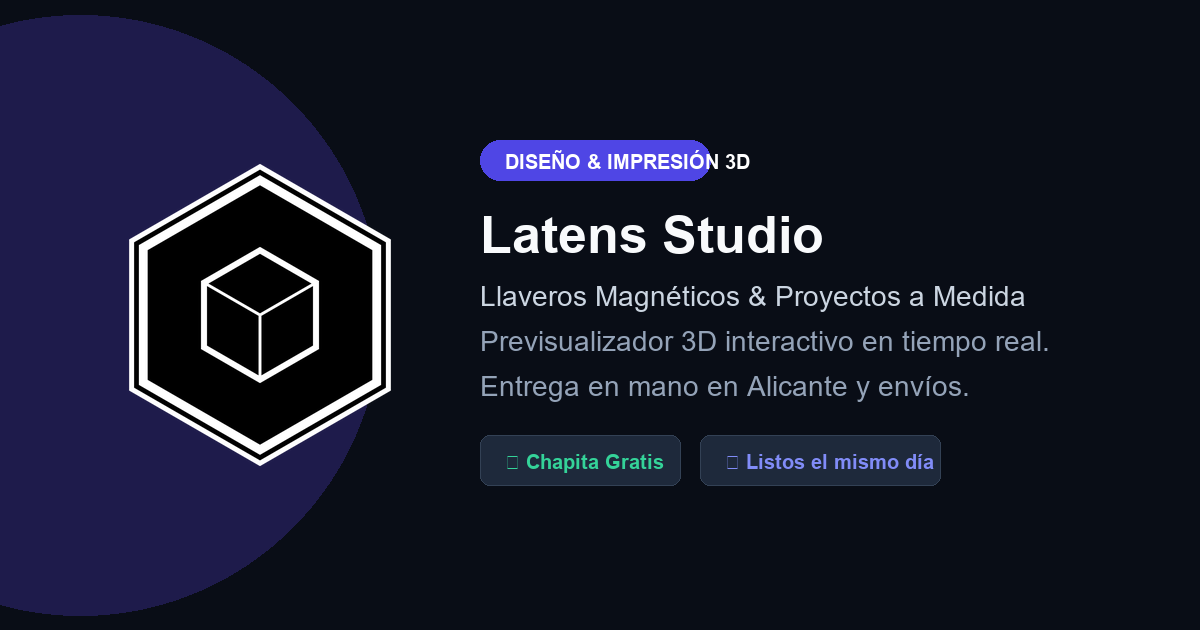
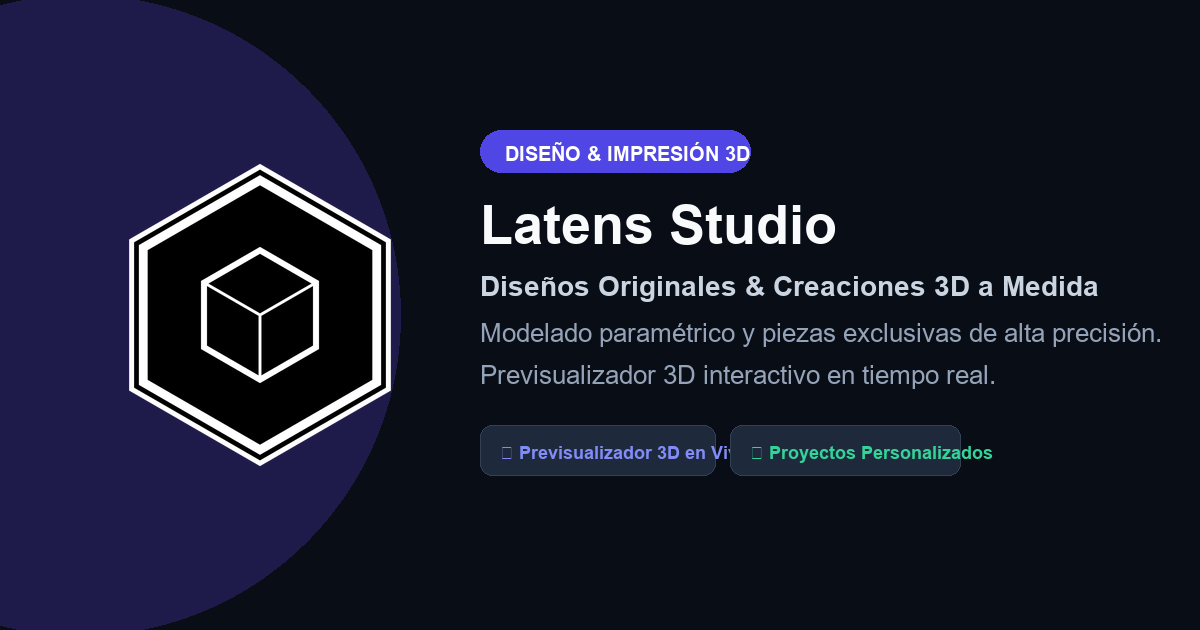
Add files via upload

Changed region(s): [[0.4008, 0.181, 0.9558, 0.6333], [0.0, 0.0, 0.3392, 1.0], [0.4008, 0.6635, 0.8325, 0.7841]]

diff --git a/index.html b/index.html
@@ -6,9 +6,9 @@
     <meta name="color-scheme" content="light dark">
     <meta name="theme-color" content="#f8fafc">
     <!-- Metadatos Principales & SEO -->
-    <title>Latens Studio — Llaveros & Diseño 3D Personalizado</title>
-    <meta name="title" content="Latens Studio — Llaveros & Diseño 3D Personalizado">
-    <meta name="description" content="Llaveros magnéticos para parejas, iniciales y proyectos 3D a medida. Previsualiza tu modelo 3D en tiempo real con chapita de regalo. ¡Listos el mismo día en Alicante!">
+    <title>Latens Studio — Diseño, Modelado & Impresión 3D Personalizada</title>
+    <meta name="title" content="Latens Studio — Diseño, Modelado & Impresión 3D Personalizada">
+    <meta name="description" content="Diseños originales, proyectos 3D a medida y previsualizador interactivo en tiempo real. Fabricación de alta precisión, modelado paramétrico y piezas exclusivas.">
     <meta name="author" content="Latens Studio">
     <meta name="robots" content="index, follow">
 
@@ -16,23 +16,27 @@
     <meta property="og:type" content="website">
     <meta property="og:url" content="https://latens-studio.github.io/Latens_Studio_Web/">
     <meta property="og:site_name" content="Latens Studio">
-    <meta property="og:title" content="Latens Studio — Llaveros & Diseño 3D Personalizado">
-    <meta property="og:description" content="Llaveros magnéticos para parejas, iniciales y proyectos 3D a medida. Previsualizador 3D interactivo en tiempo real con chapita de regalo incluida.">
-    <meta property="og:image" content="https://raw.githubusercontent.com/Latens-Studio/Latens_Studio_Web/main/preview-og.png">
-    <meta property="og:image:secure_url" content="https://raw.githubusercontent.com/Latens-Studio/Latens_Studio_Web/main/preview-og.png">
-    <meta property="og:image:type" content="image/png">
+    <meta property="og:title" content="Latens Studio — Diseños Originales & Impresión 3D Personalizada">
+    <meta property="og:description" content="Proyectos 3D a medida, modelado paramétrico y previsualizador interactivo en tiempo real de tu modelo personalizado con chapita de regalo.">
+    <meta property="og:image" content="https://latens-studio.github.io/Latens_Studio_Web/preview-og.jpg">
+    <meta property="og:image:secure_url" content="https://latens-studio.github.io/Latens_Studio_Web/preview-og.jpg">
+    <meta property="og:image:type" content="image/jpeg">
     <meta property="og:image:width" content="1200">
     <meta property="og:image:height" content="630">
-    <meta property="og:image:alt" content="Latens Studio — Diseño e Impresión 3D">
+    <meta property="og:image:alt" content="Latens Studio — Diseños Originales & Impresión 3D Personalizada">
     <meta property="og:locale" content="es_ES">
 
     <!-- Twitter / X Card -->
     <meta name="twitter:card" content="summary_large_image">
     <meta name="twitter:url" content="https://latens-studio.github.io/Latens_Studio_Web/">
-    <meta name="twitter:title" content="Latens Studio — Llaveros & Diseño 3D Personalizado">
-    <meta name="twitter:description" content="Llaveros magnéticos para parejas, iniciales y proyectos 3D a medida. Previsualizador 3D en tiempo real con chapita gratis.">
-    <meta name="twitter:image" content="https://raw.githubusercontent.com/Latens-Studio/Latens_Studio_Web/main/preview-og.png">
-    <meta name="twitter:image:alt" content="Latens Studio — Diseño e Impresión 3D">
+    <meta name="twitter:title" content="Latens Studio — Diseños Originales & Impresión 3D Personalizada">
+    <meta name="twitter:description" content="Proyectos 3D a medida, modelado paramétrico y previsualizador interactivo en tiempo real de tu modelo personalizado.">
+    <meta name="twitter:image" content="https://latens-studio.github.io/Latens_Studio_Web/preview-og.jpg">
+    <meta name="twitter:image:alt" content="Latens Studio — Diseños Originales & Impresión 3D Personalizada">
+
+    <!-- Respaldo Google / Scraping -->
+    <meta itemprop="image" content="https://latens-studio.github.io/Latens_Studio_Web/preview-og.jpg">
+    <link rel="image_src" href="https://latens-studio.github.io/Latens_Studio_Web/preview-og.jpg">
 
     <!-- Favicon / Icono de la Pestaña del Navegador -->
     <link rel="icon" type="image/svg+xml" href="logo.svg">
